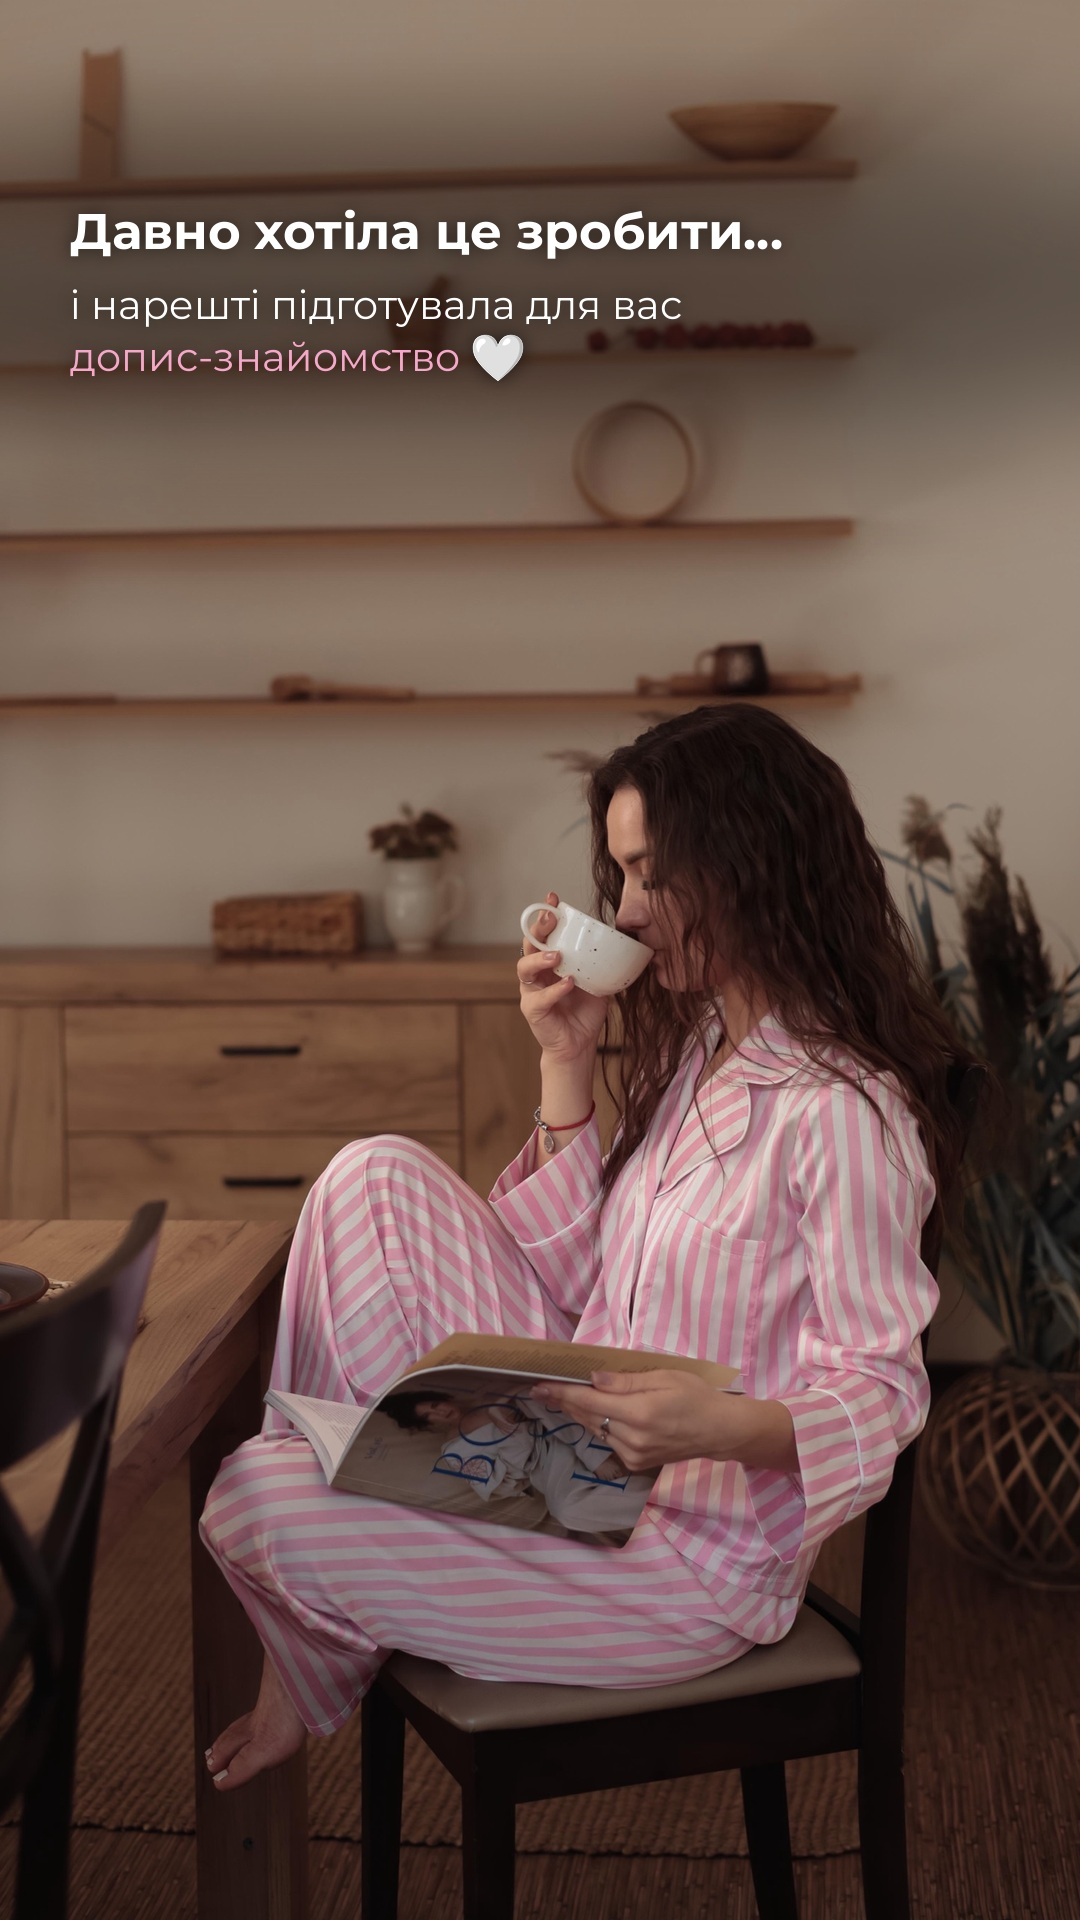
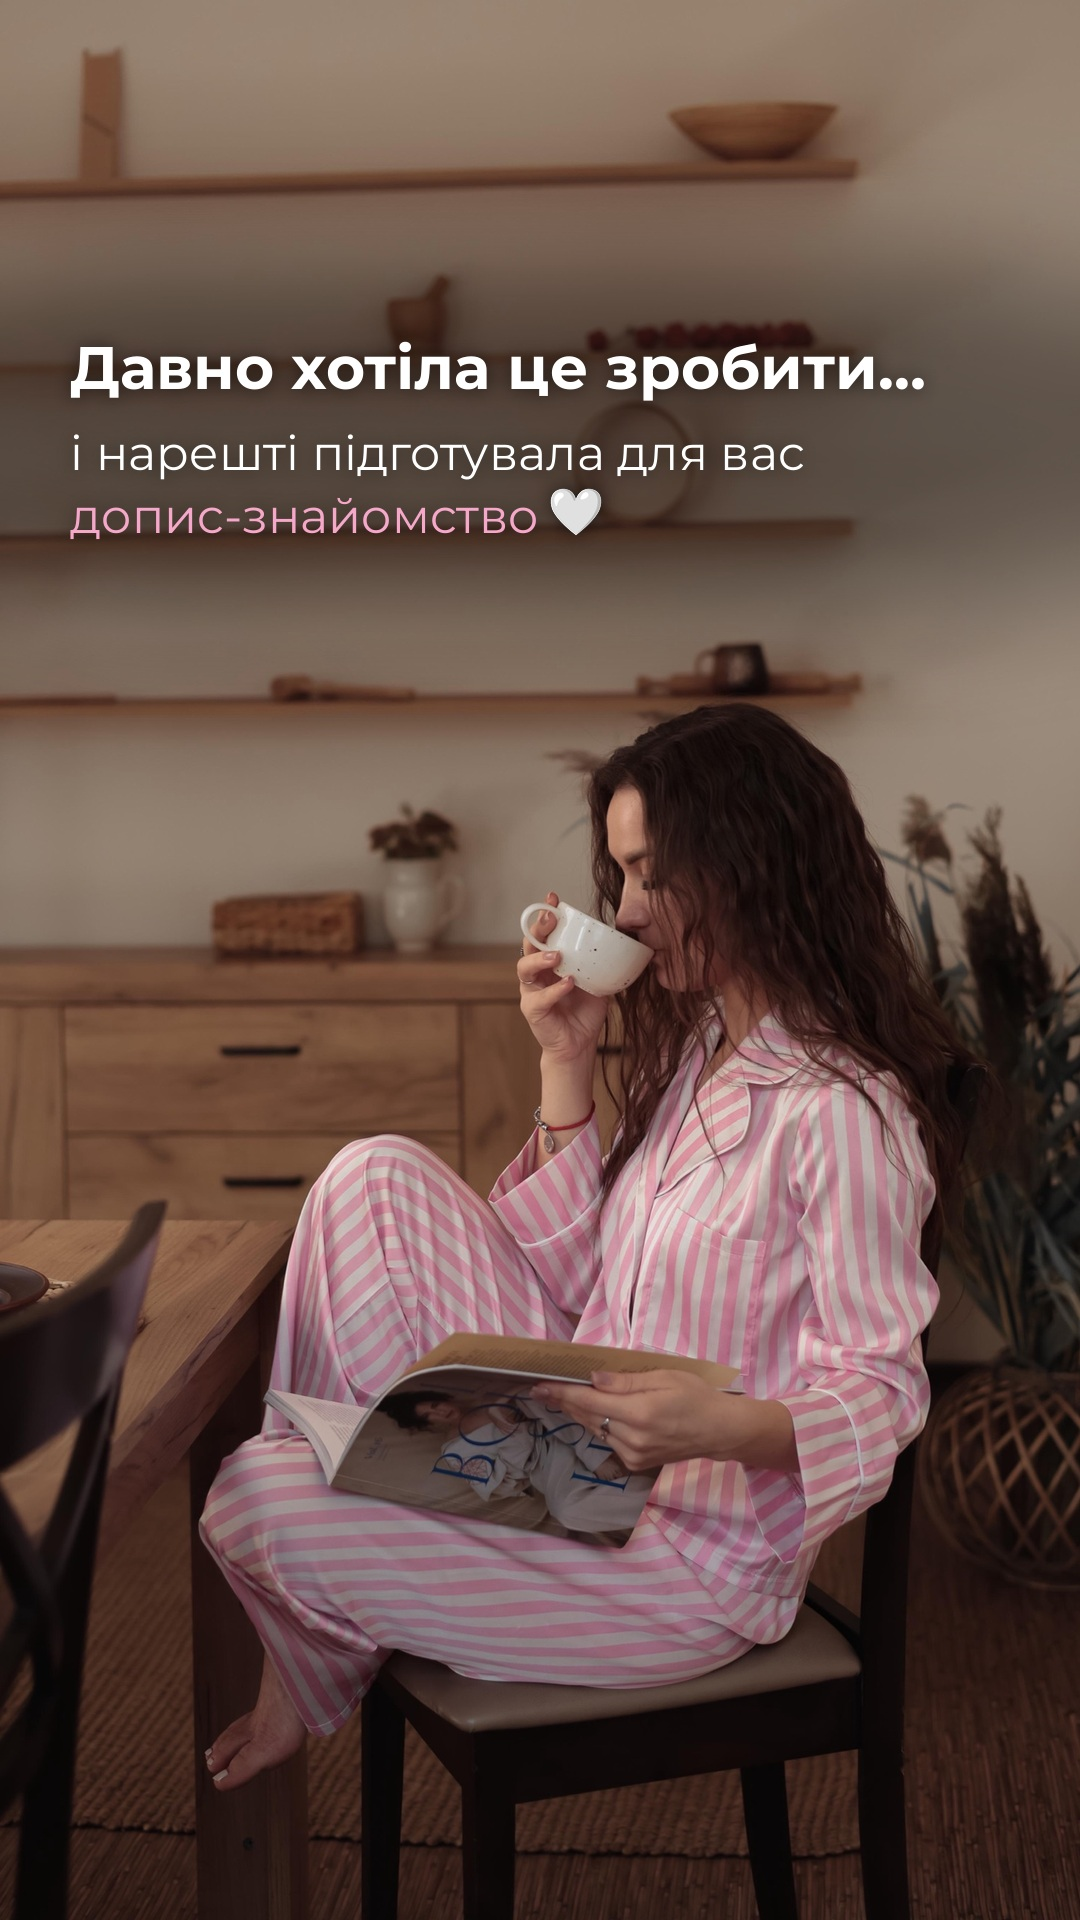
Intro stories: bigger lower text on 1, nails photo with room for poll on 2
Claude-Session: https://claude.ai/code/session_0191xVL2hi5vHUvM1ix6pauC

Changed region(s): [[0.0, 0.0625, 1.0, 0.3438]]

diff --git a/stories/znaiomstvo/build.py b/stories/znaiomstvo/build.py
@@ -3,12 +3,14 @@ S,R=sys.argv[1:3]
 src=open(f'{S}/spiv2.py').read().split('# 1 mirror')[0]
 exec(src)
 OUT=f'{R}/stories/znaiomstvo'
-def two(im,y,b1,b2,emo=None,shade=0,cx=70,mw=940):
+def two(im,y,b1,b2,emo=None,shade=0,cx=70,mw=940,big=False):
     global REG
     def draw(base):
-        global REG
-        out,y0=tx(base,y,b1,'',cx=cx,mw=mw,align='l',shade=0)
-        _R=REG; REG=F(40,400)
+        global REG, BOLD
+        _B=BOLD
+        if big: BOLD=F(60,700)
+        out,y0=tx(base,y,b1,'',cx=cx,mw=mw,align='l',shade=0); BOLD=_B
+        _R=REG; REG=F(48 if big else 40,400)
         out,yb=tx(out,y0+6,'',b2,emo,cx=cx,mw=mw,align='l',shade=0); REG=_R; return out,yb
     if shade:
         _,yb=draw(im.copy())
@@ -17,7 +19,7 @@ def two(im,y,b1,b2,emo=None,shade=0,cx=70,mw=940):
     return draw(im)
 def box(im,y0,y1,label='місце для стікера'):
     d=ImageDraw.Draw(im); return im
-im,y=two(fit(f'{U}/09383c56-image.jpg'),200,'Давно хотіла це зробити…','і нарешті підготувала для вас *допис-знайомство*','🤍',shade=120); print(1,y); im.save(f'{OUT}/1.jpg',quality=94)
-im,y=two(fit(f'{U}/389c5704-image.jpg'),200,'Невеличкий тест для вас:','як думаєте, скільки процедур я зробила *за останній рік*?','🤔',shade=130); print(2,y); im.save(f'{OUT}/2.jpg',quality=94)
+im,y=two(fit(f'{U}/09383c56-image.jpg'),330,'Давно хотіла це зробити…','і нарешті підготувала для вас *допис-знайомство*','🤍',shade=120,big=True); print(1,y); im.save(f'{OUT}/1.jpg',quality=94)
+im,y=two(zoom(f'{U}/10b2af08-image.jpg',1.3,0.45,0.9),200,'Невеличкий тест для вас:','як думаєте, скільки процедур я зробила *за останній рік*?','🤔',shade=130); print(2,y); im.save(f'{OUT}/2.jpg',quality=94)
 im,y=two(fit(f'{U}/6795168f-image.jpg'),180,'А тепер вгадайте:','який із цих фактів про мене *неправда*?','👀',shade=110,mw=560); print(3,y); im.save(f'{OUT}/3.jpg',quality=94)
 im,y=two(fit(f'{U}/6d45aa50-image.jpg'),200,'Правильні відповіді','і ще багато цікавого про мене — у *новому дописі*','👇',shade=140); print(4,y); im.save(f'{OUT}/4.jpg',quality=94)
